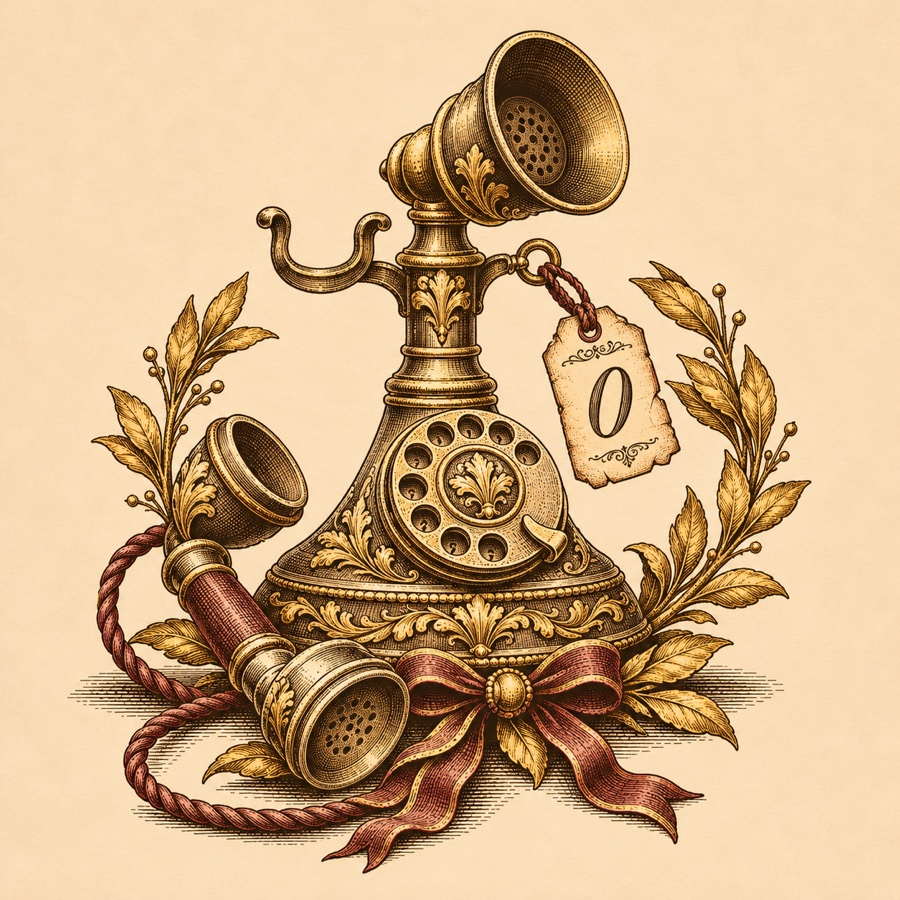
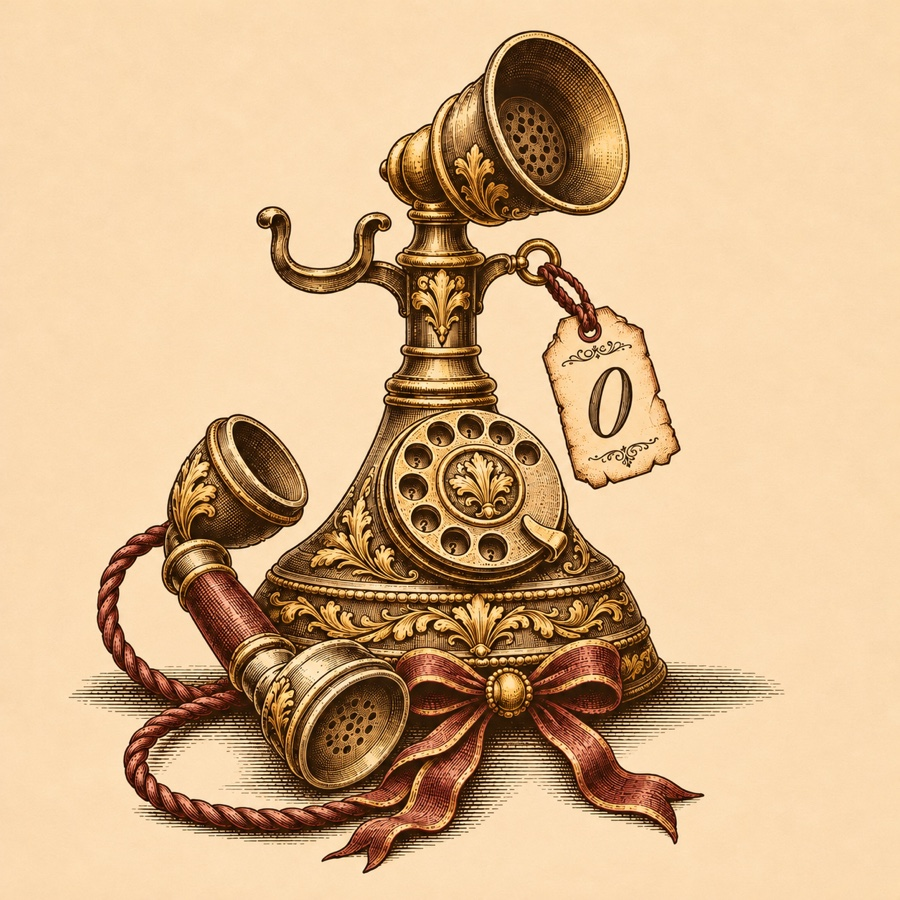
Remove laurel branches from Operator Zero artwork

Changed region(s): [[0.0933, 0.0311, 0.9022, 0.9644], [0.28, 0.2178, 0.3111, 0.28]]

diff --git a/style.css b/style.css
@@ -201,7 +201,7 @@ progress::-moz-progress-bar{background:var(--wine)}
 .atlas-team-double{background-image:url("art/team-double-redesign.jpg");background-size:100% 100%;background-position:center}
 .atlas-empty-promise{background-image:url("art/empty-promise.png");background-size:100% 100%;background-position:center}
 .atlas-new-chaos{background-size:100% 100%;background-position:center}
-.atlas-operator-zero{background-image:url("art/operator-zero.jpg")}
+.atlas-operator-zero{background-image:url("art/operator-zero.jpg?v=operator-zero-art")}
 .atlas-too-long{background-image:url("art/too-long.jpg")}
 .atlas-roll-call{background-image:url("art/roll-call.jpg")}
 .atlas-reverse{background-image:url("art/reverse.jpg?v=reverse-ship");background-size:100% 100%;background-position:center}

diff --git a/index.html b/index.html
@@ -7,7 +7,7 @@
   <meta name="description" content="五排戰績截圖、翻牌計分及每日排行榜。">
   <title>五排飲料局</title>
   <link rel="icon" href="mark.svg" type="image/svg+xml">
-  <link rel="stylesheet" href="style.css?v=mirror-coronation">
+  <link rel="stylesheet" href="style.css?v=operator-zero-art">
   <link rel="stylesheet" href="draw/astrolabe.css">
   <link rel="stylesheet" href="draw/ritual.css?v=reversal-title-font">
   <script type="module" src="app.mjs?v=mirror-coronation"></script>
